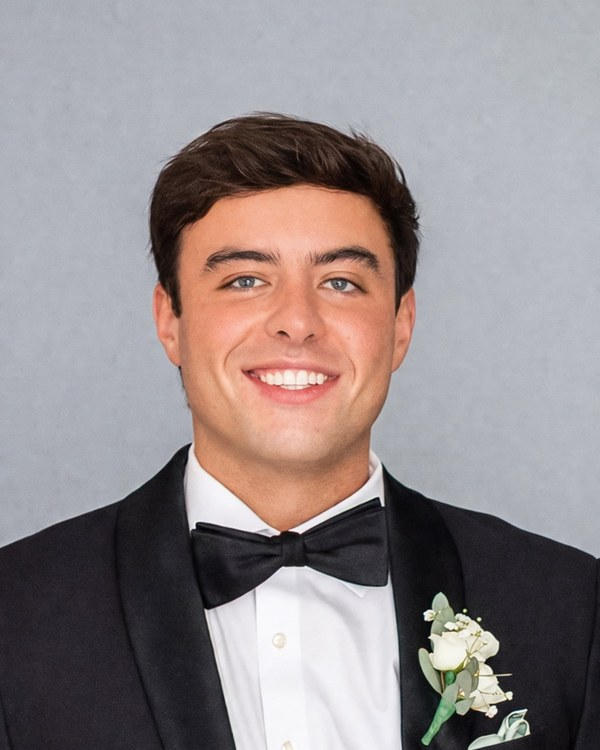
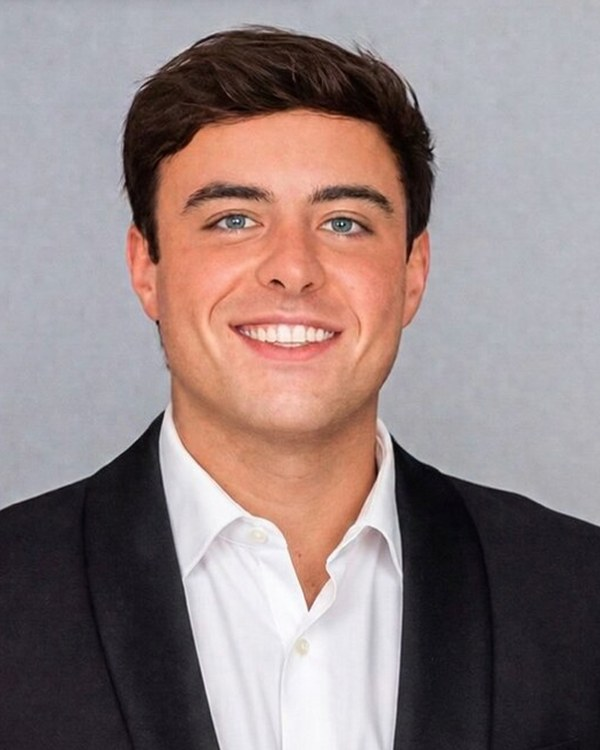
Swap in new leasing hero, coastal kitchen, and Ryan profile photo
- Leasing hero: new exterior shot with the shed removed (also used for og:image)
- 2BR kitchen: Bright Nantucket Coastal Kitchen with appliances and barstools
- Main site Team: Ryan's profile photo replaced with professional headshot

diff --git a/toombs-court-leasing/index.html b/toombs-court-leasing/index.html
@@ -10,7 +10,7 @@
 <meta property="og:type" content="website">
 <meta property="og:title" content="Toombs Court | New Residences in Nantucket, MA">
 <meta property="og:description" content="New studio through three-bedroom rental residences at 1 Toombs Court, Nantucket. Lots B & C available January 1, 2027.">
-<meta property="og:image" content="images/lot-c-exterior.webp">
+<meta property="og:image" content="images/hero-leasing.webp">
 <meta name="twitter:card" content="summary_large_image">
 
 <link rel="icon" href="favicon.svg" type="image/svg+xml">
@@ -58,8 +58,8 @@
 
 <header class="hero" id="top">
   <div class="hero__bg">
-    <img src="images/lot-c-exterior.webp"
-         srcset="images/lot-c-exterior-sm.webp 960w, images/lot-c-exterior.webp 1920w"
+    <img src="images/hero-leasing.webp"
+         srcset="images/hero-leasing-sm.webp 960w, images/hero-leasing.webp 1706w"
          sizes="100vw"
          alt="Twilight exterior view of the Toombs Court residences, Nantucket, with cedar-shingle siding and white trim"
          fetchpriority="high">
@@ -145,8 +145,8 @@
         <div class="layout-example__body">
           <img class="layout-example__plan" src="images/layout-2br.webp" alt="2 Bedroom floor plan — living room, kitchen, dining area, two bedrooms, and two baths" loading="lazy">
           <div class="layout-example__thumbs">
-            <button data-full="images/interior-kitchen-2br.webp" data-caption="Kitchen — 2BR Layout">
-              <img src="images/interior-kitchen-2br.webp" loading="lazy" alt="Kitchen in the Toombs Court 2BR layout">
+            <button data-full="images/interior-kitchen-2br.webp" data-caption="Bright Nantucket Coastal Kitchen — 2BR Layout">
+              <img src="images/interior-kitchen-2br.webp" loading="lazy" alt="Bright Nantucket coastal kitchen with stainless appliances and woven barstools in the Toombs Court 2BR layout">
               <span>Kitchen</span>
             </button>
             <button data-full="images/interior-living-2br.webp" data-caption="Coastal Living Room Retreat — 2BR Layout">
@@ -207,8 +207,8 @@
         <button class="span-2" data-full="images/neighborhood-meat-fish.webp" data-caption="Nantucket Meat &amp; Fish Market, nearby">
           <img src="images/neighborhood-meat-fish.webp" loading="lazy" alt="Storefront of Nantucket Meat & Fish Market, a short walk from Toombs Court">
         </button>
-        <button class="span-2" data-full="images/interior-kitchen-2br.webp" data-caption="Kitchen — 2BR Layout">
-          <img src="images/interior-kitchen-2br.webp" loading="lazy" alt="Bright white kitchen with island and pendant lighting in the Toombs Court 2BR layout">
+        <button class="span-2" data-full="images/interior-kitchen-2br.webp" data-caption="Bright Nantucket Coastal Kitchen — 2BR Layout">
+          <img src="images/interior-kitchen-2br.webp" loading="lazy" alt="Bright Nantucket coastal kitchen with island, woven barstools, and stainless appliances in the Toombs Court 2BR layout">
         </button>
         <button data-full="images/interior-living-2br.webp" data-caption="Coastal Living Room Retreat — 2BR Layout">
           <img src="images/interior-living-2br.webp" loading="lazy" alt="Coastal-style living room with blue accent pillows in the Toombs Court 2BR layout">

diff --git a/toombs-court-leasing/css/styles.css b/toombs-court-leasing/css/styles.css
@@ -110,7 +110,7 @@ em { font-style: italic; color: var(--mcneil-red); }
   color: var(--white); overflow: hidden;
 }
 .hero__bg { position: absolute; inset: 0; z-index: -2; }
-.hero__bg img { width: 100%; height: 100%; object-fit: cover; }
+.hero__bg img { width: 100%; height: 100%; object-fit: cover; object-position: center 20%; }
 .hero__scrim { position: absolute; inset: 0; z-index: -1; background: linear-gradient(180deg, rgba(14,13,11,0.35) 0%, rgba(14,13,11,0.15) 35%, rgba(14,13,11,0.8) 100%); }
 .hero__content { padding: 0 2rem 6rem; max-width: var(--maxw); margin: 0 auto; width: 100%; }
 .hero-eyebrow {
